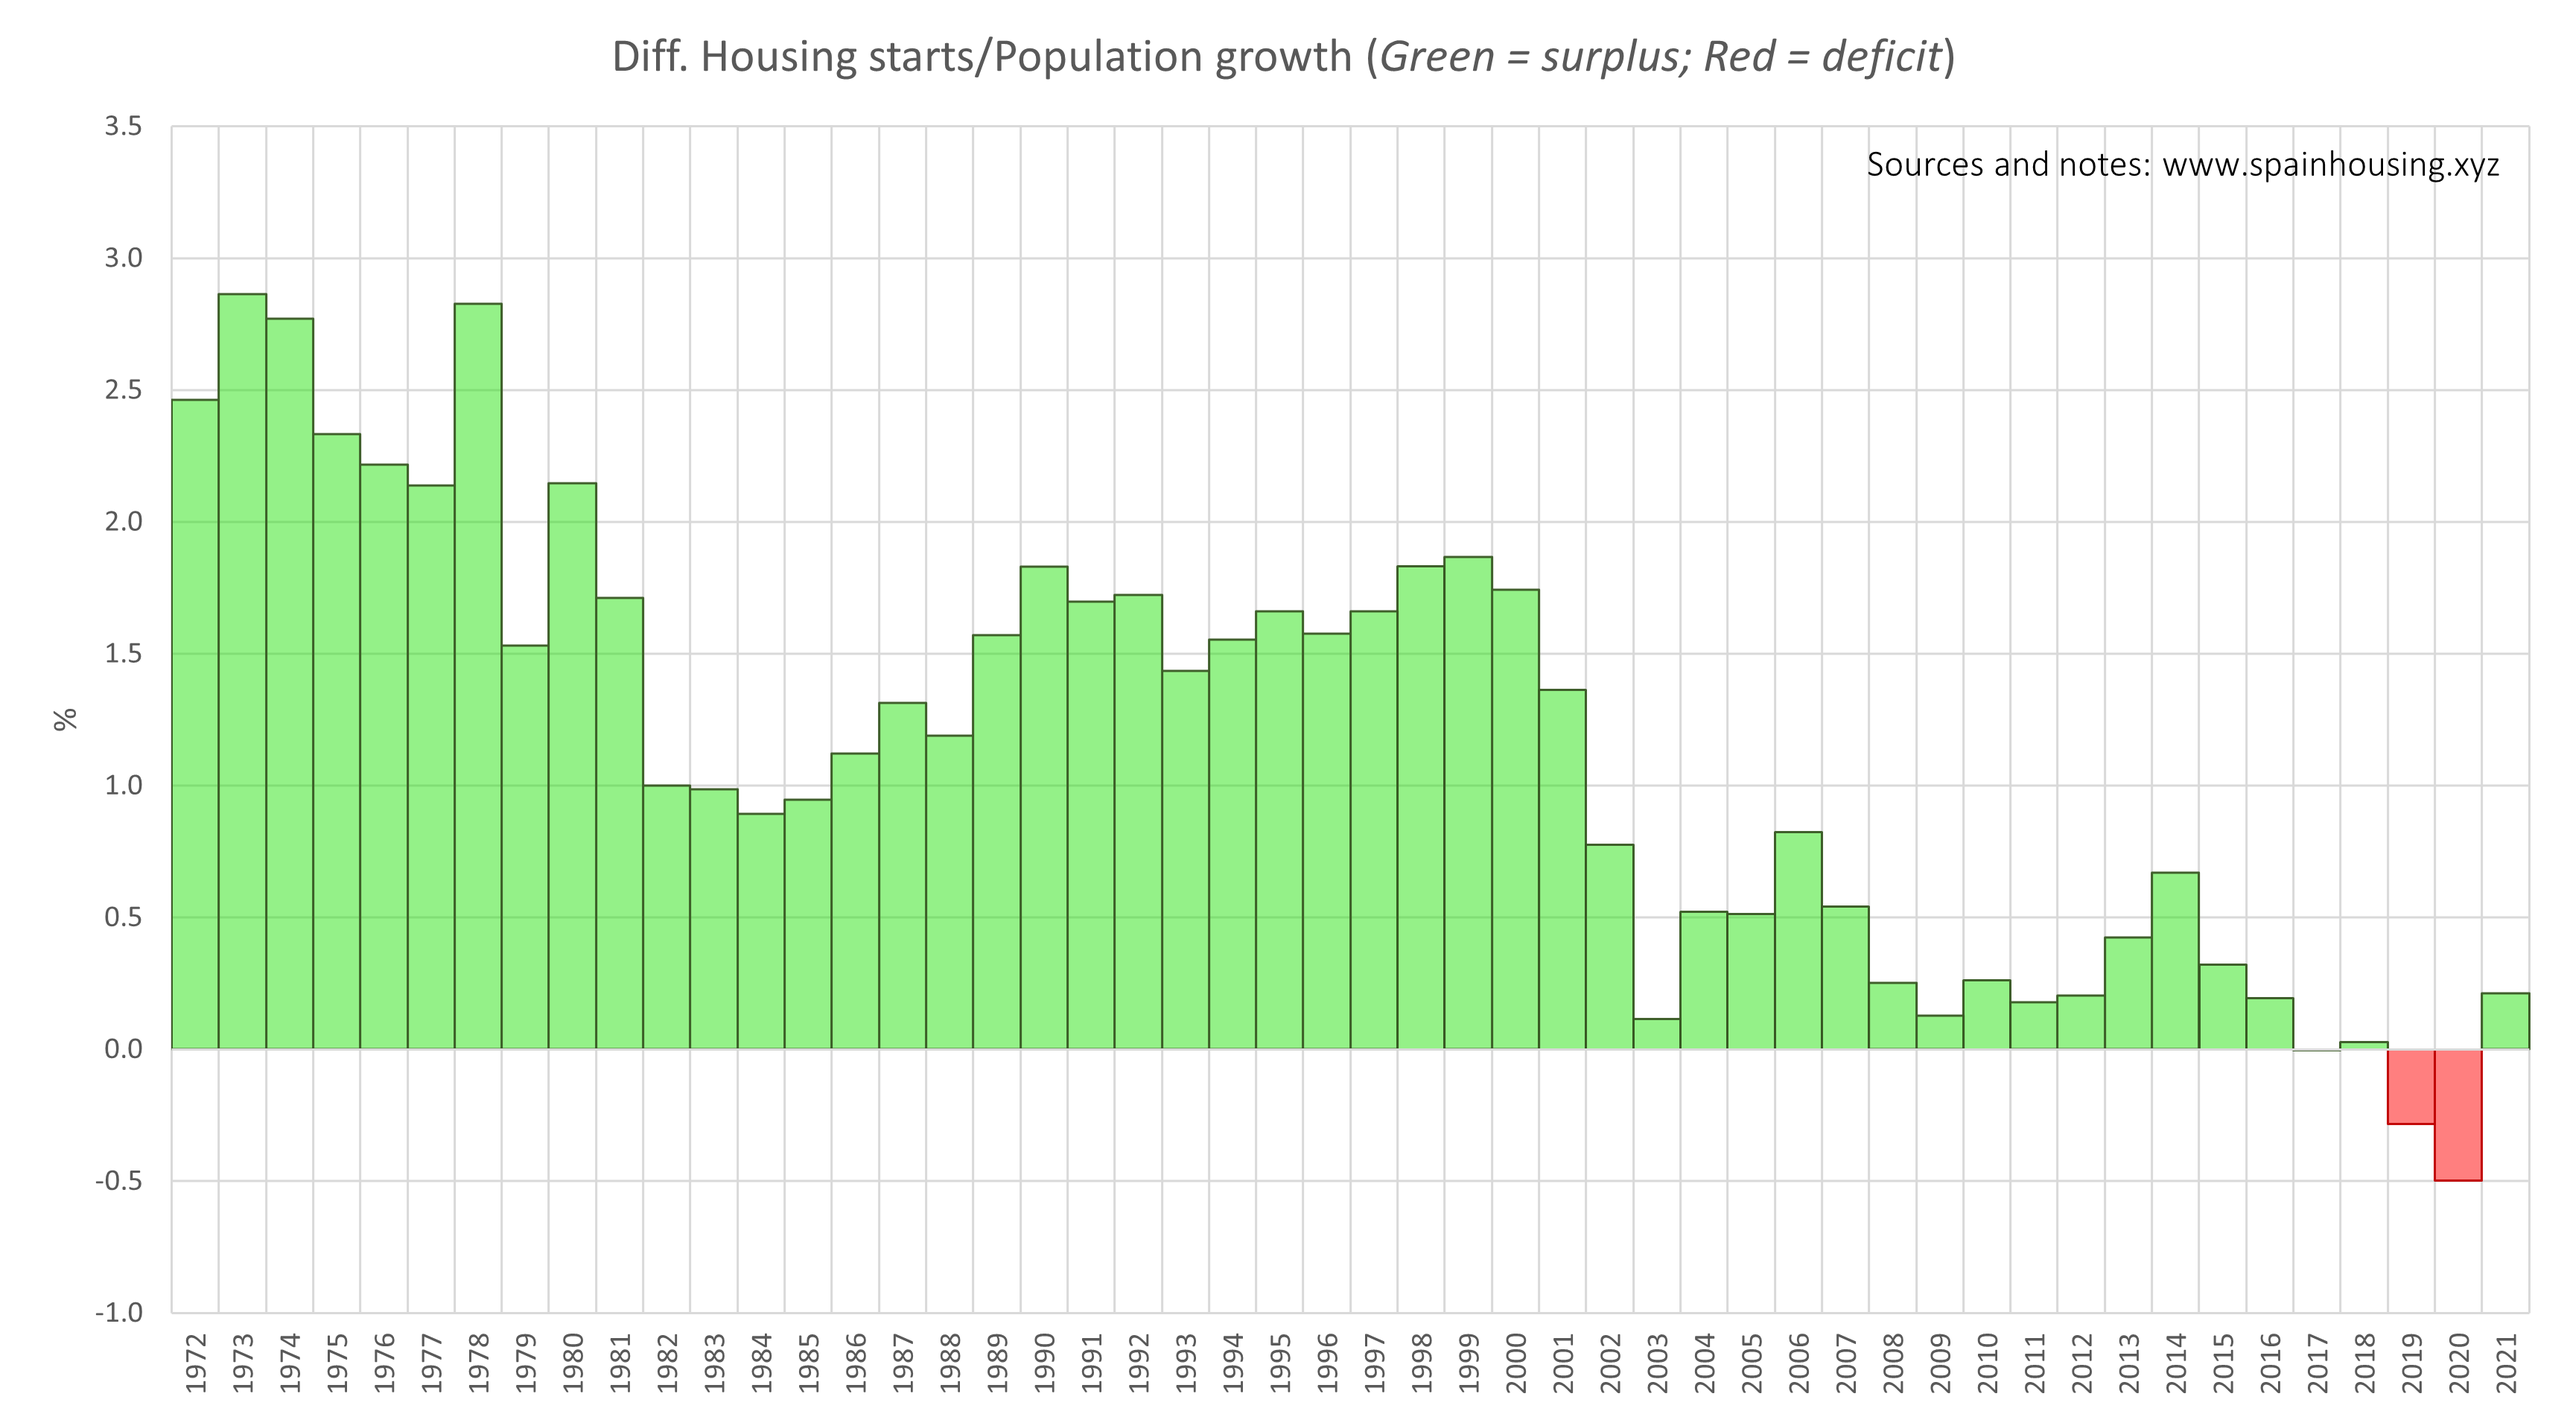
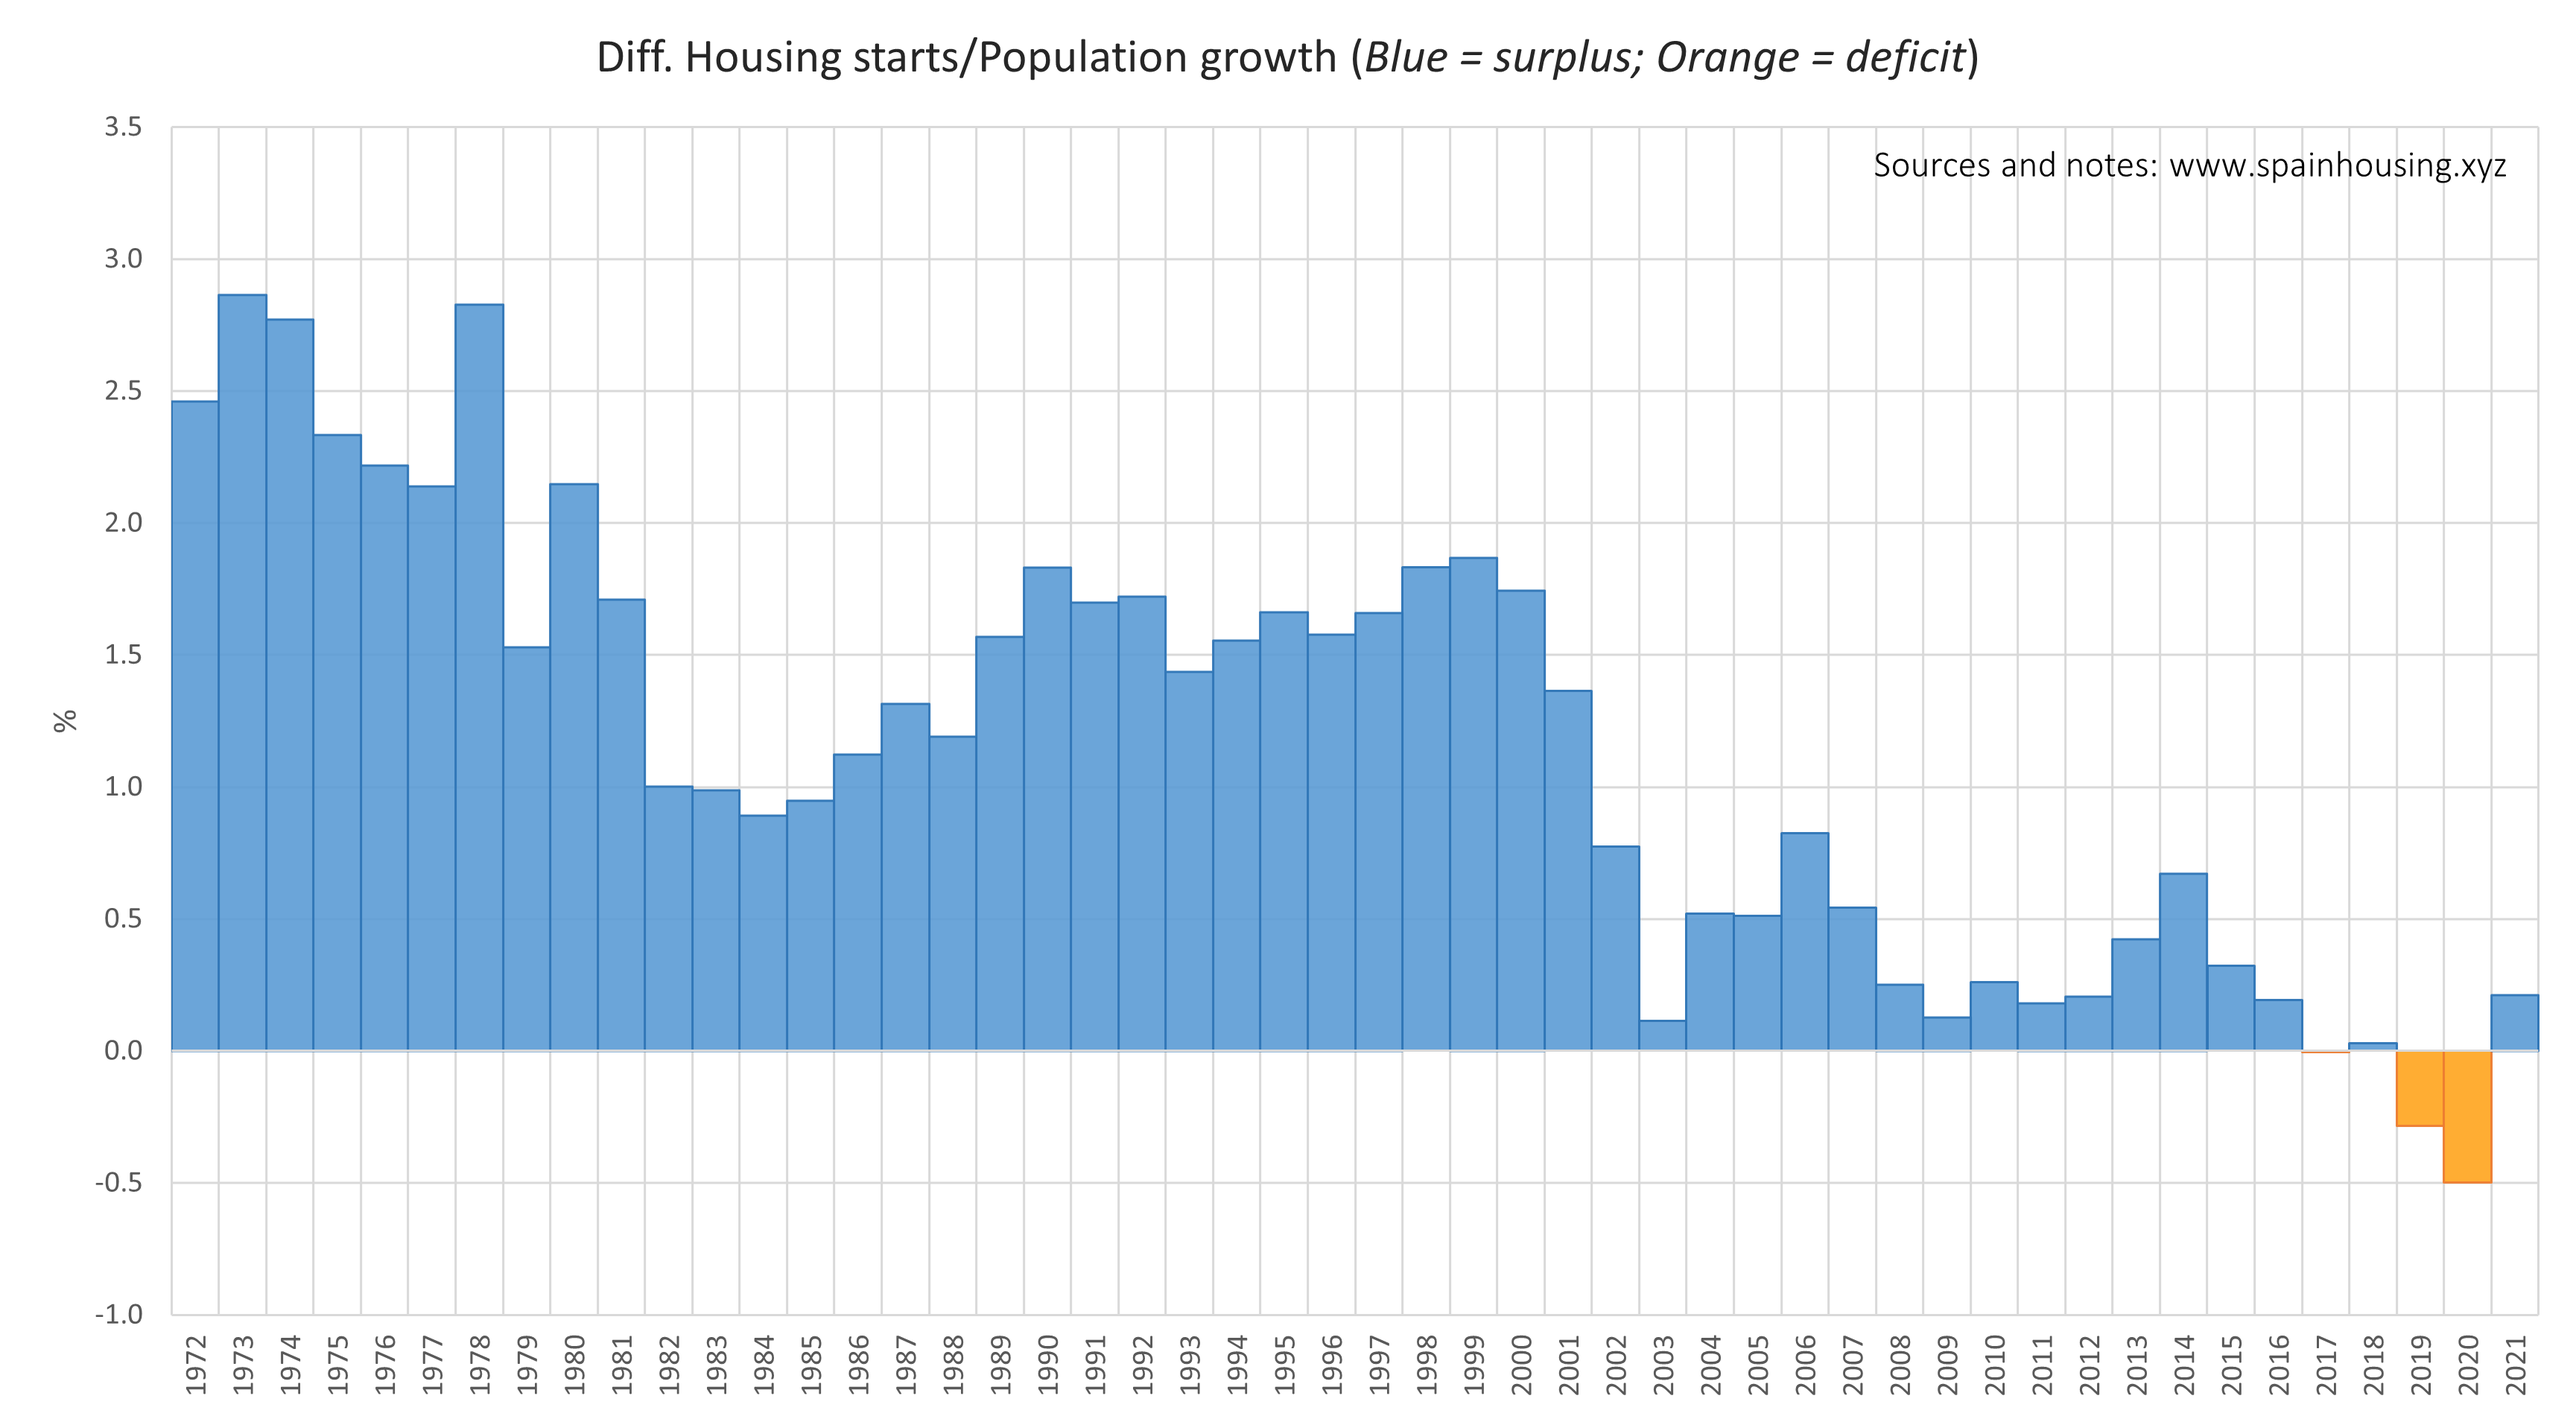
update

Changed region(s): [[0.0621, 0.186, 0.9933, 0.8371], [0.2173, 0.031, 0.776, 0.062], [0.745, 0.093, 0.9623, 0.124]]

diff --git a/pages/posts/stock.md b/pages/posts/stock.md
@@ -21,7 +21,7 @@ import Image from 'next/image'
 
 ![Reload chart](/images/difhabitatges.png)
 
-- **Housing surplus or deficit**: Difference between housing growth and population growth. Green color implies housing surplus; red color implies housing deficit.
+- **Housing surplus or deficit**: Difference between housing growth and population growth. Blue color implies housing surplus; orange color implies housing deficit.
 
 # Interpretation and observations
 
